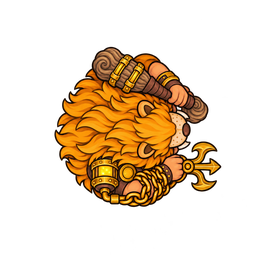
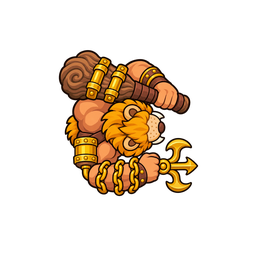
Raio, lança e Escudo de Palas com imagem; sprite novo do Hércules (62 px)
Claude-Session: https://claude.ai/code/session_01BAjwL1G9oDLLvCrMNVKtnJ

Changed region(s): [[0.1875, 0.1562, 0.875, 0.8125]]

diff --git a/assets/README.md b/assets/README.md
@@ -19,7 +19,7 @@ Tamanhos na tela são para a base 1280×720.
 | `talos_full.png` | 512×768 | 340×510 | Galeria de heróis: corpo inteiro, de frente, fundo transparente, pés perto da base da imagem (sombra elíptica desenhada pelo código). Sem o arquivo, a galeria usa o retrato ampliado (círculo de 300 px) |
 | `artemis_full.png` | 512×768 | 340×510 | Idem |
 | `asclepio_full.png` | 512×768 | 340×510 | Idem |
-| `hercules_top.png` | 256×256 | 60×60 | Pacote 3. Como os outros sprites (virado para a direita, anel do time a 80%) |
+| `hercules_top.png` | 256×256 | 62×62 | Pacote 3. Como os outros sprites (virado para a direita, anel do time a 80%) |
 | `zeus_top.png` | 256×256 | 47×47 | Idem |
 | `atena_top.png` | 256×256 | 50×50 | Idem |
 | `hercules_portrait.png`, `zeus_portrait.png`, `atena_portrait.png` | 256×256 | círculo de 50 px (medidor) e 88 px (galeria) | Idem aos outros retratos |
@@ -174,5 +174,5 @@ Sem o arquivo, cada efeito continua desenhado por código. Tamanho na tela em es
 | `coruja_olho.png` | 20×12 | Olho dourado acima do inimigo marcado pelo Olhar da Coruja |
 | `coruja_voo.png` | 24×24 | Coruja de latão voando da Atena até o alvo (aponta para a direita) |
 | `falange_area.png` | 360×360 | Falange de Atenas (raio 180): anel de escudos de prata na borda, lança no centro |
-| `escudo_palas.png` | 68×68 (escala pelo raio) | Escudo dado pela Atena (Palas e Falange): anel de prata, centro vazio |
+| `escudo_palas.png` | 88×88 no Talos; 2 × (raio + 4) / 0,59 em cada herói, para a faixa começar fora do anel do time | Escudo dado pela Atena (Palas e Falange): anel de prata, centro vazio |
 | `lanca_projetil.png` | 34×8 | Lança arremessada (básico da Atena), apontando para a direita |
